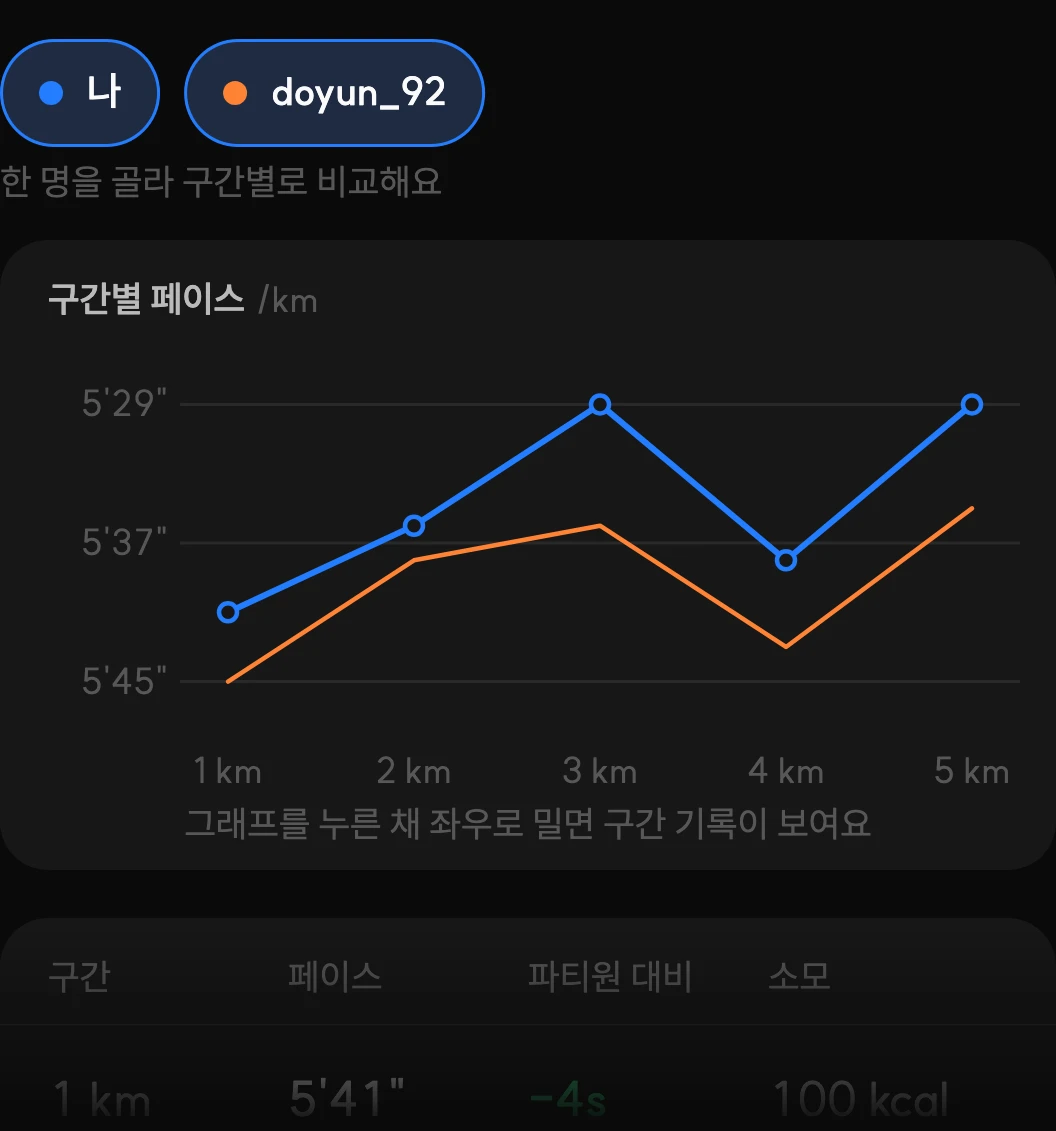
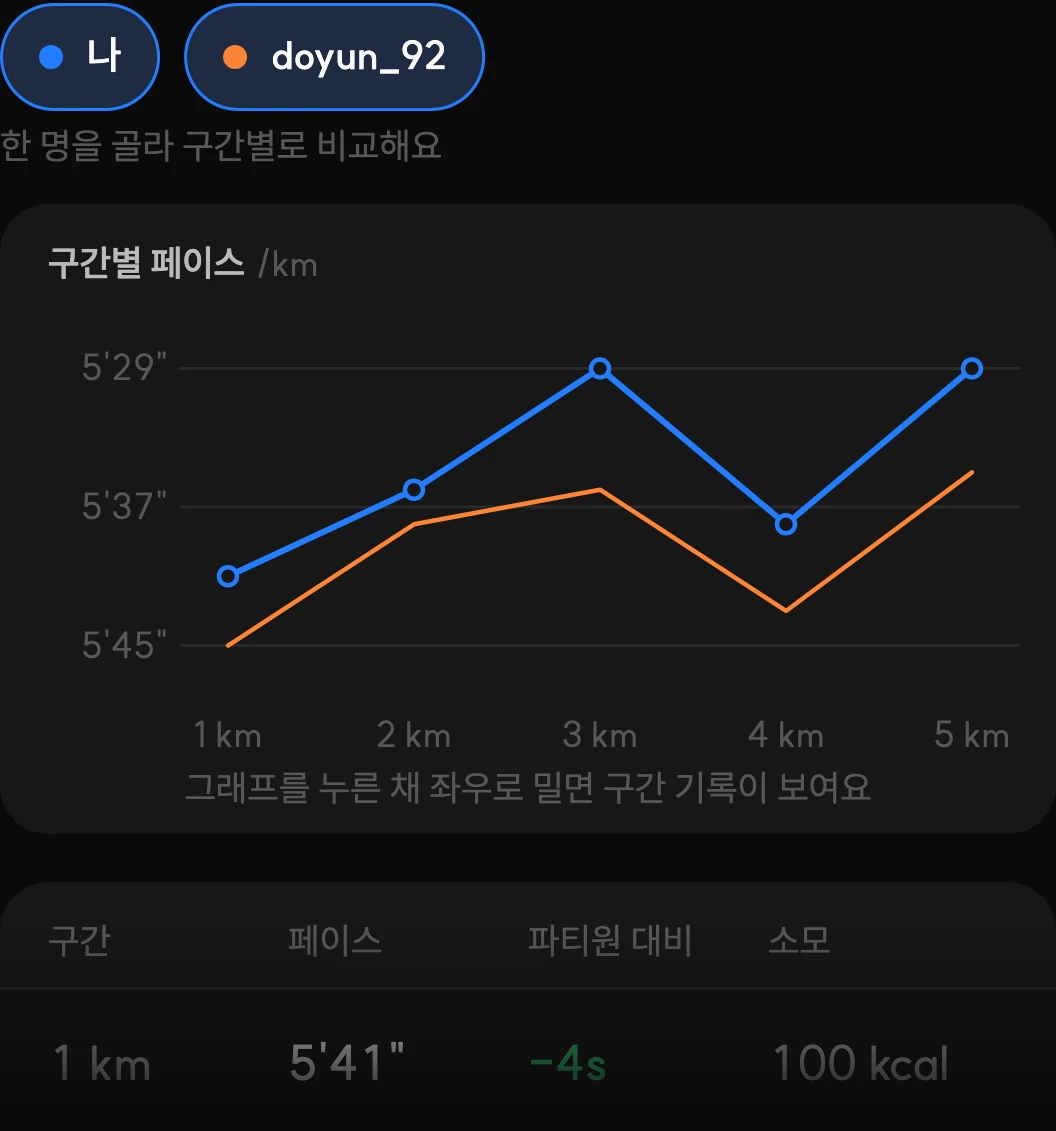
🔨 Fix: 소개 3장 그림 위 여백을 덜고 4장 그림을 칸 아래에 붙여 높이를 맞춘다

diff --git a/lib/features/onboarding/presentation/onboarding_intro_page.dart b/lib/features/onboarding/presentation/onboarding_intro_page.dart
@@ -438,8 +438,12 @@ class _RecordArt extends StatelessWidget {
     // ⚠ 두 카드는 제 높이대로 쌓이고, 남는 세로가 모자라면 **통째로 줄어든다.**
     // 안에서 늘였다 줄였다 하면 겹치는 깊이와 기울기가 기기마다 달라진다 —
     // 비율을 지킨 채 작아지는 편이 낫다. 넘쳐서 노란 줄이 뜨는 일도 없다.
+    //
+    // 칸 아래에 붙인다. 곡 카드를 끌어올린 만큼 아래가 비어서, 가운데에 두면
+    // 다른 장 그림보다 떠 보인다.
     return FittedBox(
       fit: BoxFit.scaleDown,
+      alignment: Alignment.bottomCenter,
       child: SizedBox(
         width: _artWidth,
         child: Stack(
